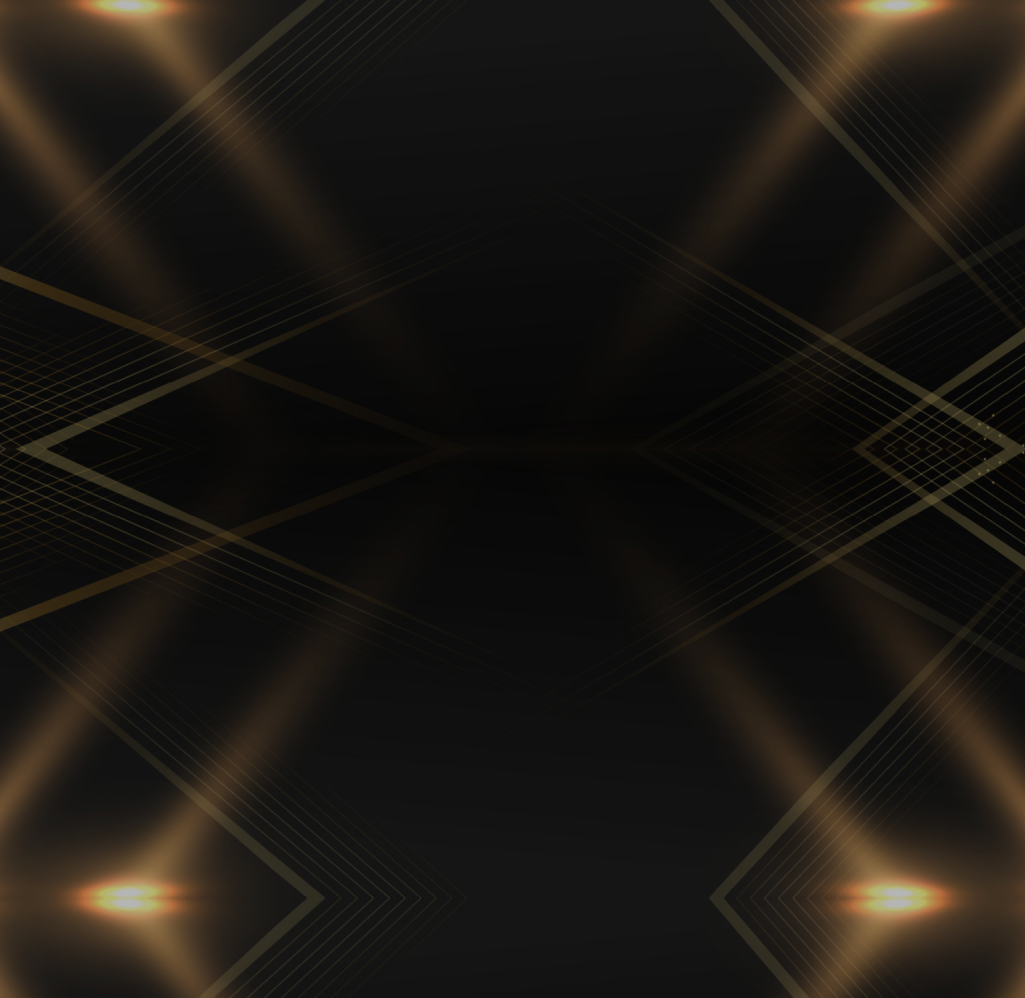
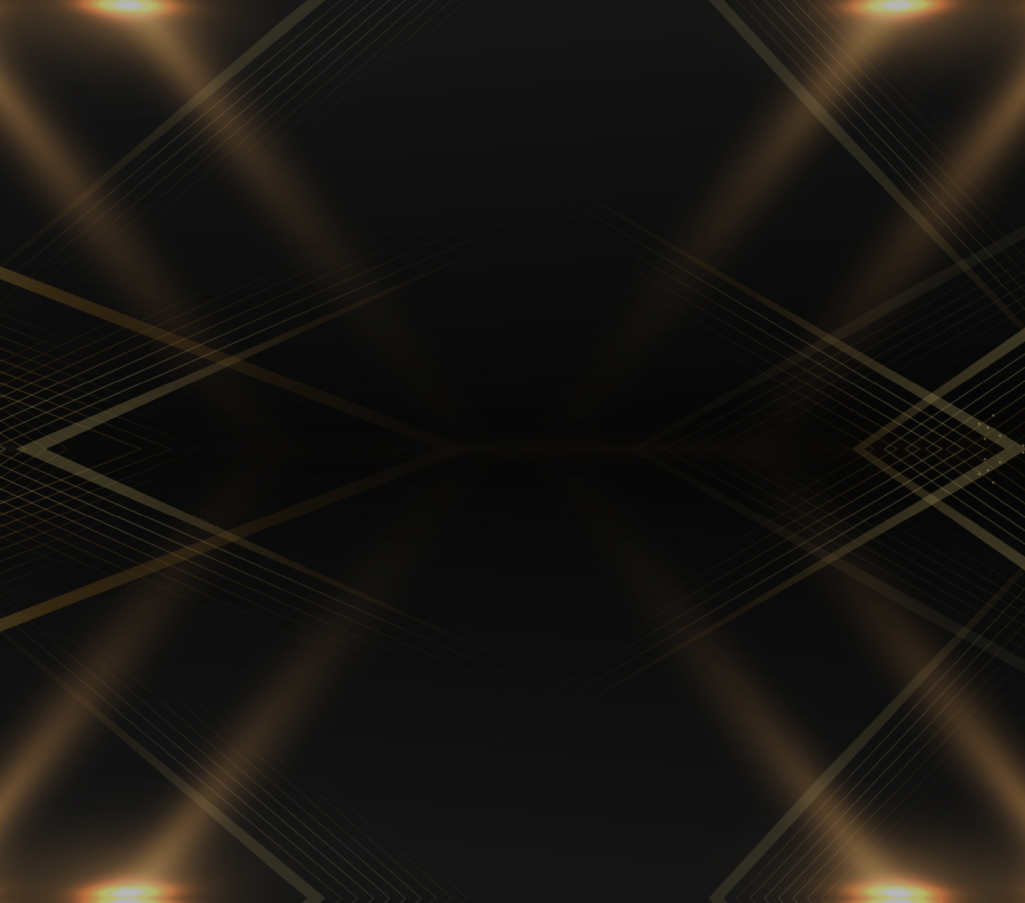
screen size fix

diff --git a/css/style.min.css b/css/style.min.css
@@ -325,9 +325,8 @@ nav #check {
 } */
 .hero {
   background-image: url("../img/Frame1.png");
-  background-size: cover;
   background-position: fixed;
-  background-repeat: no-repeat;
+  background-repeat: repeat;
   background-attachment: fixed;
   text-align: center;
   color: #fff;
@@ -335,12 +334,20 @@ nav #check {
   padding-top: 30vh;
   position: relative;
   background-color: #000;
+  background-size: cover;
 }
 /* Media query for smaller screens (e.g., mobile devices) */
 @media only screen and (max-width: 767px) {
   .hero {
     background-image: url("../img/Frame3.png"); /* Specify the path to your mobile image */
     padding-top: 20vh; /* Adjust padding as needed for mobile layout */
+    background-position: fixed;
+    background-repeat: repeat;
+    background-attachment: fixed;
+    position: relative;
+    height: 100vh;
+    background-size: contain;
+    
   }
 }
 
@@ -358,6 +365,8 @@ nav #check {
     margin: 0px 0px;
     transition: all 0.3s ease-in-out;
     cursor: pointer;
+    
+    
   }
   .btn.btn-primary {
     background-color:#ffc700;

diff --git a/scripts/countdown.js b/scripts/countdown.js
@@ -1,5 +1,5 @@
 // Set the date we're counting down to
-const countDownDate = new Date("Jan 11, 2027 00:00:00").getTime();
+const countDownDate = new Date("Aug 14, 2025 00:00:00").getTime();
 
 // Update the countdown every 1 second
 const x = setInterval(function() {
